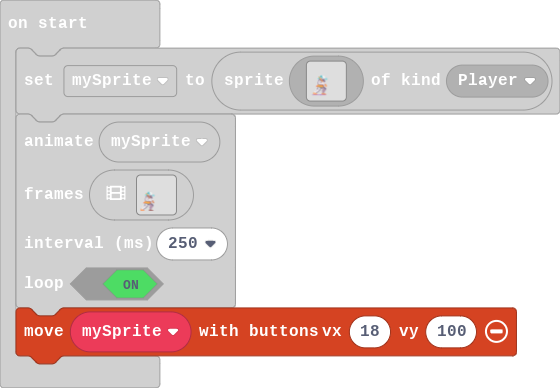
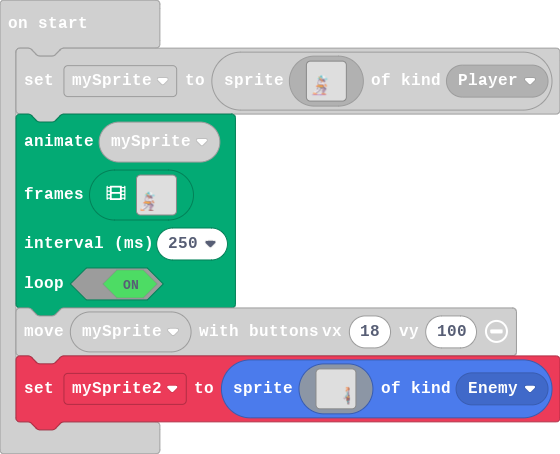
Update main.blocks, main.ts

diff --git a/main.ts b/main.ts
@@ -147,7 +147,7 @@ mySprite,
     .......................96669........................................................................
     .......................96669111111..................................................................
     ......................9666669111111.................................................................
-    .................44..96666966911111.................................................................
+    .................44..96666666911111.................................................................
     .................444966666966911111.................................................................
     ..................45566699b96691111.................................................................
     ..................955e69bbb96691111.................................................................
@@ -248,7 +248,7 @@ mySprite,
     .......................96669........................................................................
     .......................96669111111..................................................................
     ......................9666669111111.................................................................
-    .................44..96666966911111.................................................................
+    .................44..96666666911111.................................................................
     .................444966666966911111.................................................................
     ..................45566699b96691111........99.......................................................
     ..................955e69bbb96691111.........6.......................................................
@@ -347,7 +347,7 @@ mySprite,
     .......................96669........................................................................
     .......................96669111111..................................................................
     ......................9666669111111.................................................................
-    .................44..96666966911111.................................................................
+    .................44..96666666911111.................................................................
     .................444966666966911111.................................................................
     ..................45566699b96691111.................................................................
     ..................955e69bbb96691111.................................................................
@@ -450,7 +450,7 @@ mySprite,
     .......................96669........................................................................
     .......................96669111111..................................................................
     ......................9666669111111.................................................................
-    .................44..96666966911111.................................................................
+    .................44..96666666911111.................................................................
     .................444966666966911111.................................................................
     ..................45566699b96691111.................................................................
     ..................955e69bbb96691111.................................................................
@@ -713,3 +713,105 @@ mySprite,
 true
 )
 controller.moveSprite(mySprite, 18, 100)
+let mySprite2 = sprites.create(img`
+    ....................................................................................................
+    ....................................................................................................
+    ....................................................................................................
+    ....................................................................................................
+    ....................................................................................................
+    ....................................................................................................
+    ....................................................................................................
+    ....................................................................................................
+    ....................................................................................................
+    ....................................................................................................
+    ....................................................................................................
+    ....................................................................................................
+    ....................................................................................................
+    ....................................................................................................
+    ....................................................................................................
+    ....................................................................................................
+    ....................................................................................................
+    ....................................................................................................
+    ....................................................................................................
+    ....................................................................................................
+    ....................................................................................................
+    ....................................................................................................
+    ....................................................................................................
+    ....................................................................................................
+    ....................................................................................................
+    ....................................................................................................
+    ....................................................................................................
+    ....................................................................................................
+    ....................................................................................................
+    ....................................................................................................
+    ....................................................................................................
+    ....................................................................................................
+    ....................................................................................................
+    ....................................................................................................
+    ....................................................................................................
+    ....................................................................................................
+    ....................................................................................................
+    ....................................................................................................
+    ....................................................................................................
+    ....................................................................................................
+    ....................................................................................................
+    ....................................................................................................
+    ....................................................................................................
+    ....................................................................................................
+    ....................................................................................................
+    ..................................................................................444444ee..........
+    .................................................................................44444444ee.........
+    .................................................................................44444444ee.........
+    ..................................................................................dddd4444ee........
+    ..................................................................................ddddd444ee........
+    ..................................................................................dddd4444ee........
+    ..................................................................................d44444e4ee........
+    ..................................................................................d44444e4ee........
+    .................................................................................444b444e4ee........
+    .................................................................................444444dee..........
+    .................................................................................4b44dddbb..........
+    .................................................................................4444ddddbb.........
+    .................................................................................444dddddbb.........
+    .................................................................................b.d66dcdbb.........
+    ...................................................................................d6d6dcbb.........
+    ...................................................................................d6d6dcbb.........
+    ...................................................................................dd6ddcbb.........
+    ...................................................................................dd6ddcbb.........
+    ...................................................................................d6d66cbb.........
+    ....................................................................................dd66cbb.........
+    ....................................................................................d6d6cbb.........
+    ....................................................................................6d66cbb.........
+    ....................................................................................d66dcbb.........
+    ...................................................................................d66ddcbb.........
+    ..................................................................................66ddddcecc........
+    .................................................................................dd666ddcecc........
+    ................................................................................66ddd664cecc........
+    ................................................................................66ddd664cecc........
+    ...............................................................................dd666dd444ecc........
+    ..............................................................................d666d66444544.........
+    ...........................................................................ddd66dddc44555544........
+    ..........................................................................ddddd6dccceeeee5544.......
+    ..........................................................................dbdddbbcceeeeeeeecc.......
+    ..........................................................................bdbddbc..eeeeeeeecc.......
+    ..........................................................................bbddb....eeeeeeeecc.......
+    ...........................................................................bbbb....eeeeeeeecc.......
+    ............................................................................bb.....eeeeeeeecc.......
+    ...................................................................................eeeeeeeecc.......
+    ...................................................................................eeeeeeeecc.......
+    ...................................................................................eeeeeeeecc.......
+    ...................................................................................eeeeeeecc........
+    ...................................................................................eeeeee6cb........
+    ....................................................................................ee6666bb........
+    .....................................................................................6666bb.........
+    .....................................................................................6666bb.........
+    ......................................................................................6666bb........
+    ......................................................................................6666bb........
+    ......................................................................................66eebb........
+    ......................................................................................eee6bb........
+    ......................................................................................eeeebb........
+    ......................................................................................6eeebb........
+    ......................................................................................ee6bb.........
+    ......................................................................................66dbb.........
+    .....................................................................................ddddbb.........
+    ...................................................................................ddddddbb.........
+    `, SpriteKind.Enemy)
